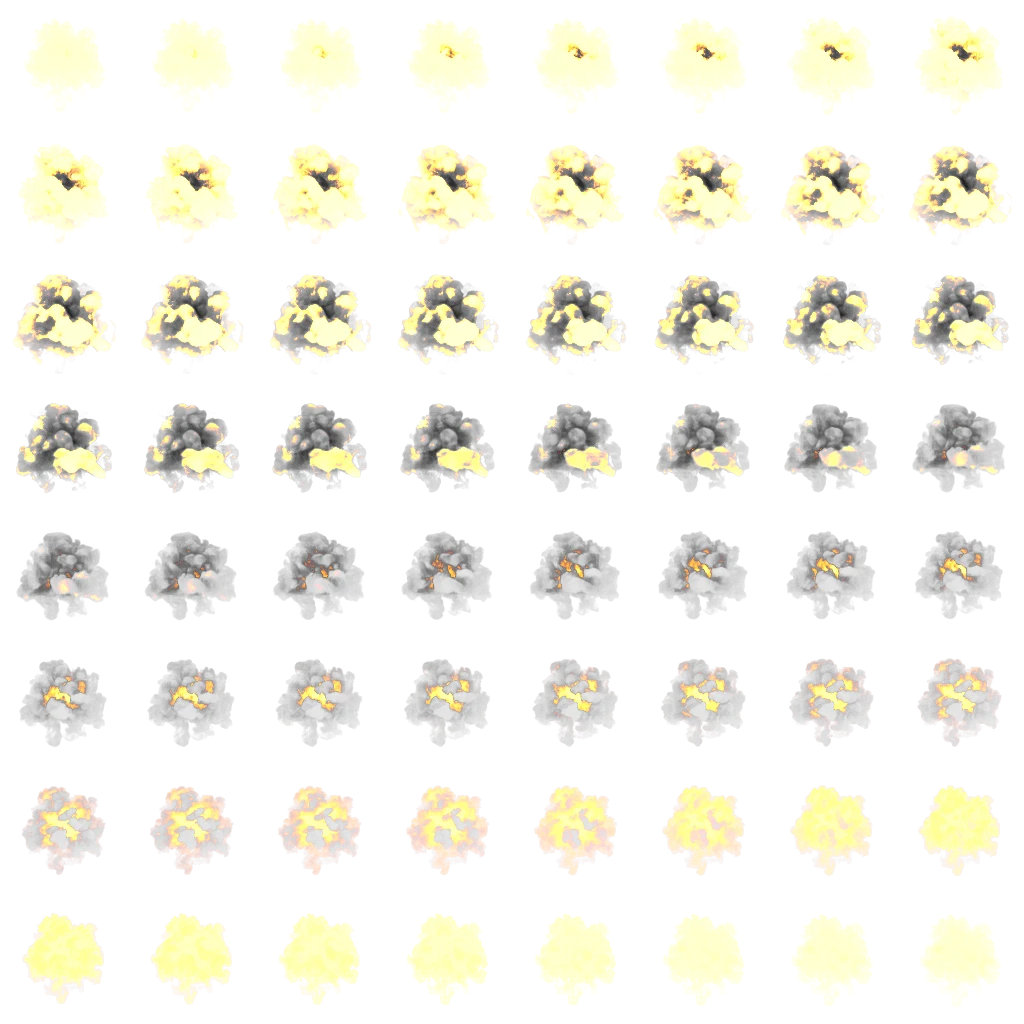
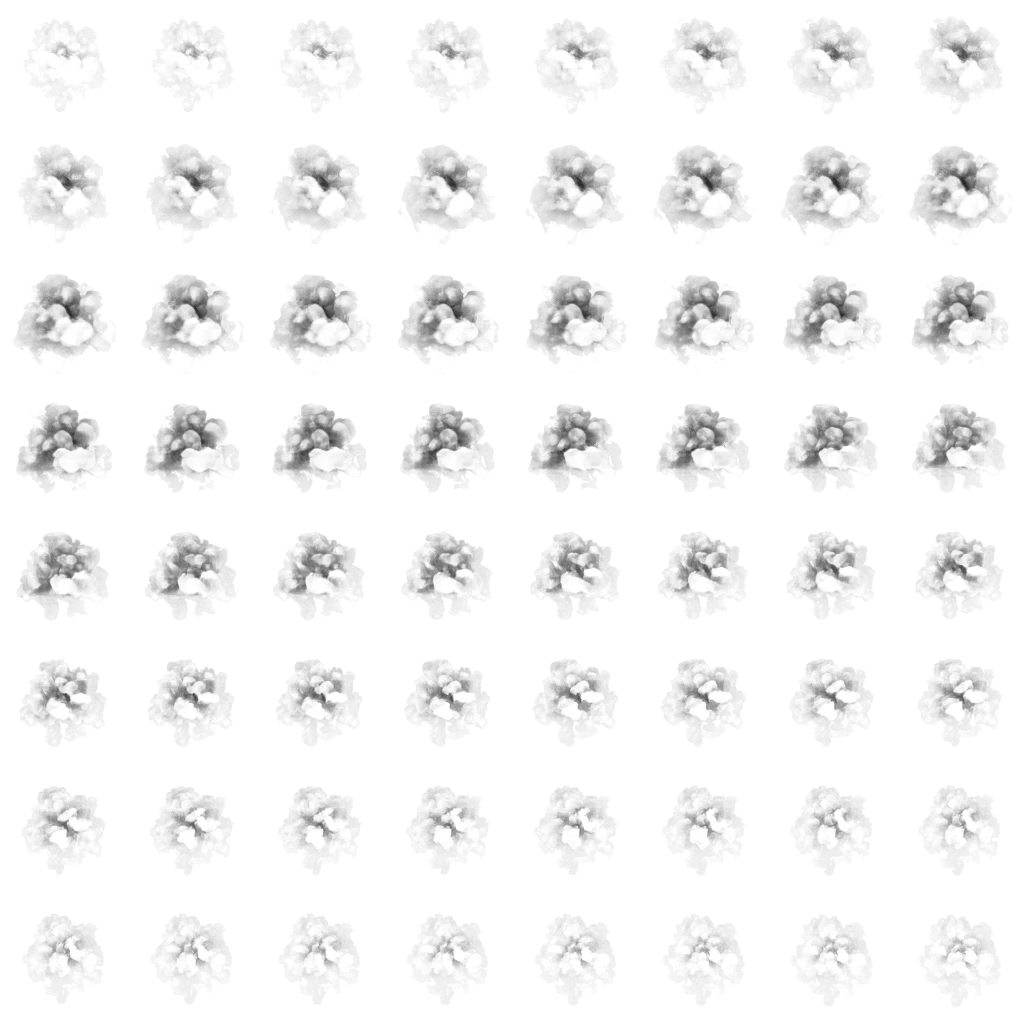
Effects: blast books read with the right grid, smoke unpacked as smoke, pictures of all of them
Claude-Session: https://claude.ai/code/session_016gsxKWa46tSX8BBXu4C1Xh

diff --git a/tools/build_fx_library.py b/tools/build_fx_library.py
@@ -30,7 +30,8 @@ from PIL import Image
 Image.MAX_IMAGE_PIXELS = None
 
 # source file (its name within the folder, wherever it lies) -> name, columns, rows, kind, how it is read
-#   read: "alpha" as it is; "black" drawn on black; "white" dark on white; "packed" shade/glow/cover in R/B/A
+#   read: "alpha" as it is; "black" drawn on black; "white" dark on white; "packed" shade/glow/cover in R/B/A;
+#         "shade" the same packing with no glow (smoke)
 SHEETS = [
     ("Fire Tileable.jpg", "noise_fire_01", 1, 1, "tile", "rgb"),
     ("Burningtexture.png", "noise_cloud_01", 1, 1, "tile", "rgb"),
@@ -85,8 +86,8 @@ SHEETS = [
     ("Fire1.png", "burst_white_01", 6, 6, "fire_burst_grey", "alpha"),
     ("SparkExolosion2.png", "spark_burst_01", 3, 3, "spark", "black"),
     # whole explosions: flash, fireball and the smoke after, in one book
-    ("Explosion1.png", "blast_01", 12, 8, "blast", "alpha"),
-    ("Explosion2.png", "blast_02", 12, 8, "blast", "alpha"),
+    ("Explosion1.png", "blast_01", 12, 7, "blast", "alpha"),
+    ("Explosion2.png", "blast_02", 12, 7, "blast", "alpha"),
     ("Explosion3.png", "blast_03", 12, 7, "blast", "alpha"),
     ("Explosion4.png", "blast_04", 8, 8, "blast", "alpha"),
     ("Explosion5.png", "blast_05", 12, 7, "blast", "alpha"),
@@ -105,15 +106,15 @@ SHEETS = [
     ("EmberExpl3.png", "blast_18", 8, 8, "blast", "alpha"),
     ("Explosion17.png", "dust_streak_01", 6, 12, "streak", "alpha"),
     # smoke
-    ("T_smoke_01_BC_E_M.png", "smoke_roll_01", 8, 8, "smoke_loop", "packed"),
-    ("T_smoke_02_BC_E_M.png", "smoke_roll_02", 8, 8, "smoke_loop", "packed"),
-    ("T_smoke_03_BC_E_M.png", "smoke_roll_03", 8, 8, "smoke_loop", "packed"),
-    ("T_smoke_04_BC_E_M.png", "smoke_roll_04", 8, 8, "smoke_loop", "packed"),
-    ("T_smoke_05_BC_E_M.png", "smoke_roll_05", 8, 8, "smoke_loop", "packed"),
-    ("T_smoke_06_BC_E_M.png", "smoke_roll_06", 8, 8, "smoke_loop", "packed"),
-    ("T_smoke_07_BC_E_M.png", "smoke_roll_07", 8, 8, "smoke_loop", "packed"),
-    ("T_smoke_08_BC_E_M.png", "smoke_roll_08", 8, 8, "smoke_loop", "packed"),
-    ("T_smoke_09_BC_E_M.png", "smoke_roll_09", 8, 8, "smoke_loop", "packed"),
+    ("T_smoke_01_BC_E_M.png", "smoke_roll_01", 8, 8, "smoke_loop", "shade"),
+    ("T_smoke_02_BC_E_M.png", "smoke_roll_02", 8, 8, "smoke_loop", "shade"),
+    ("T_smoke_03_BC_E_M.png", "smoke_roll_03", 8, 8, "smoke_loop", "shade"),
+    ("T_smoke_04_BC_E_M.png", "smoke_roll_04", 8, 8, "smoke_loop", "shade"),
+    ("T_smoke_05_BC_E_M.png", "smoke_roll_05", 8, 8, "smoke_loop", "shade"),
+    ("T_smoke_06_BC_E_M.png", "smoke_roll_06", 8, 8, "smoke_loop", "shade"),
+    ("T_smoke_07_BC_E_M.png", "smoke_roll_07", 8, 8, "smoke_loop", "shade"),
+    ("T_smoke_08_BC_E_M.png", "smoke_roll_08", 8, 8, "smoke_loop", "shade"),
+    ("T_smoke_09_BC_E_M.png", "smoke_roll_09", 8, 8, "smoke_loop", "shade"),
     ("SmokeAnim2.png", "smoke_dark_01", 8, 8, "smoke_loop", "alpha"),
     ("SmokeLoop.tif", "smoke_dark_02", 6, 6, "smoke_loop", "alpha"),
     ("SmokeLoop02.tif", "smoke_dark_03", 6, 6, "smoke_loop", "white"),
@@ -155,6 +156,9 @@ def convert(path, read, limit):
         lum = rgb.mean(axis=2)
         alpha = np.clip((1.0 - lum) * 1.6, 0, 1)
         rgb = np.full_like(rgb, 0.22)
+    elif read == "shade":
+        # Smoke packed the same way, with no fire in it: its shade is its picture.
+        rgb = np.repeat(np.clip(rgb[..., 0:1] * 1.05, 0, 1), 3, axis=2)
     elif read == "packed":
         shade, glow = rgb[..., 0], rgb[..., 2]
         fire = np.stack([np.clip(glow * 2.4, 0, 1), np.clip(glow * 1.5 - 0.1, 0, 1), np.clip(glow * 1.2 - 0.55, 0, 1)], axis=2)
@@ -171,19 +175,24 @@ def book(tex, **kw):
     return dict(dict(type="particles", texture=tex, amount=1, play="through"), **kw)
 
 
+def stands(t, size):
+    """How high a picture `size` across its longer side stands, metres."""
+    return size * t["cell_h"] / t["cell_w"] if t["cell_w"] >= t["cell_h"] else size
+
+
 def basic(name, t):
     """The plain effect a texture gets by its kind."""
     kind, frames = t["kind"], t["cols"] * t["rows"]
     if kind == "blast" or kind == "blast_smoke":
         seconds = round(frames / 34.0, 2)
-        layers = [book(name, lifetime=seconds, size=6.0, lift=1.6)]
+        layers = [book(name, lifetime=seconds, size=6.0, lift=round(stands(t, 6.0) * 0.46, 2))]
         if kind == "blast":
             layers.append(dict(type="light", color=[1.0, 0.7, 0.35], energy=14.0, range=18.0, flash=0.55))
         return dict(loop=False, seconds=seconds, about="A whole explosion from one book: flash, fireball, smoke.", layers=layers)
     if kind in ("fire_burst", "fire_burst_grey"):
         seconds = round(frames / 36.0, 2)
         return dict(loop=False, seconds=seconds, about="A burst of fire that swells and breaks up.", layers=[
-            book(name, lifetime=seconds, size=3.2, lift=0.8, blend="add", color=FIRE if kind.endswith("grey") else [1, 1, 1]),
+            book(name, lifetime=seconds, size=3.2, lift=1.5, blend="add", color=FIRE if kind.endswith("grey") else [1, 1, 1]),
             dict(type="light", color=[1.0, 0.65, 0.3], energy=8.0, range=10.0, flash=0.4)])
     if kind == "spark":
         return dict(loop=False, seconds=0.6, about="A burst of sparks.", layers=[
@@ -214,7 +223,7 @@ def basic(name, t):
     if kind == "smoke_once":
         seconds = round(frames / 24.0, 2)
         return dict(loop=False, seconds=seconds, about="A puff of smoke that billows and thins.", layers=[
-            book(name, lifetime=seconds, size=3.0, lift=0.6, lit=True, color=[0.75, 0.74, 0.72, 0.9])])
+            book(name, lifetime=seconds, size=3.0, lift=1.4, lit=True, color=[0.75, 0.74, 0.72, 0.9])])
     if kind == "streak":
         return dict(loop=False, seconds=1.6, about="A low streak of dust thrown along the ground.", layers=[
             book(name, lifetime=1.6, size=5.0, lift=0.4, lit=True)])
@@ -224,7 +233,8 @@ def basic(name, t):
                  spread=0.25, drift=0.3, fade="in_out", color=SMOKE + [0.6], lit=True, turn=25.0)])
     if kind == "glow":
         return dict(loop=True, about="A glow that hangs and pulses.", layers=[
-            dict(type="particles", texture=name, amount=1, lifetime=2.0, play="one", size=2.0, blend="add", fade="in_out")])
+            dict(type="particles", texture=name, amount=1, lifetime=2.0, play="one", size=2.0, blend="add", fade="in_out",
+                 lift=1.0)])
     if kind == "ring":
         return dict(loop=False, seconds=0.7, about="A shock ring that spreads and fades.", layers=[
             dict(type="particles", texture=name, amount=1, lifetime=0.7, play="one", size=1.0, grow=9.0, blend="add",
@@ -370,40 +380,40 @@ COMPOSITES = {
         dict(type="particles", texture="dust_bits_01", amount=6, lifetime=0.9, play="pick", size=0.35, grow=2.0, burst=0.7,
              one_shot=True, fade="out", lit=True, color=[0.62, 0.56, 0.48, 0.5], lift=0.1)]),
     "smoke_puff": dict(loop=False, seconds=1.5, about="One puff of smoke, as from a snuffed flame or a shot.", layers=[
-        book("smoke_burst_03", lifetime=1.5, size=1.6, lift=0.4, lit=True, color=[0.8, 0.8, 0.8, 0.8])]),
+        book("smoke_burst_03", lifetime=1.5, size=1.6, lift=0.8, lit=True, color=[0.8, 0.8, 0.8, 0.8])]),
     "smoke_ring_burst": dict(loop=False, seconds=2.4, about="Smoke thrown outward in a ring.", layers=[
         dict(type="particles", texture="puff_soft_03", amount=1, lifetime=2.4, play="one", size=2.0, grow=4.0, fade="out",
              flat=True, lift=0.4, color=SMOKE + [0.7], lit=True),
         ring(7.0, 0.5, "ring_cloud_01")]),
     # ---- explosions
     "explosion_small": dict(loop=False, seconds=2.2, about="A small explosion: a grenade, a pot of powder.", layers=[
-        book("blast_05", lifetime=2.2, size=4.0, lift=1.1), ring(6.0, 0.45), sparks(30, 7.0), debris(12, 5.0),
+        book("blast_05", lifetime=2.2, size=4.0, lift=1.5), ring(6.0, 0.45), sparks(30, 7.0), debris(12, 5.0),
         flash(12.0, 14.0, 0.45)]),
     "explosion_medium": dict(loop=False, seconds=2.6, about="A barrel going up.", layers=[
-        book("blast_07", lifetime=2.5, size=7.0, lift=2.0), book("fire_burst_03", lifetime=1.2, size=4.5, lift=1.4, blend="add"),
+        book("blast_07", lifetime=2.5, size=7.0, lift=2.7), book("fire_burst_03", lifetime=1.2, size=4.5, lift=2.0, blend="add"),
         ring(10.0, 0.55), sparks(50, 10.0), debris(26, 8.0), flash(20.0, 24.0, 0.6)]),
     "explosion_large": dict(loop=False, seconds=4.0, about="A big one, with a column of smoke left standing after it.", layers=[
-        book("blast_02", lifetime=2.9, size=12.0, lift=3.6), book("fire_burst_04", lifetime=1.6, size=8.0, lift=2.6, blend="add"),
+        book("blast_02", lifetime=2.9, size=15.0, lift=6.6), book("fire_burst_04", lifetime=1.6, size=8.0, lift=3.6, blend="add"),
         ring(18.0, 0.7), ring(12.0, 1.1, "ring_cloud_01"), sparks(80, 14.0), debris(44, 12.0),
         dict(smoke("smoke_dark_01", 14, 4.0, 3.0, 2.4, 2.2, [0.6, 0.6, 0.6, 0.9], lift=3.0, spread=1.5), one_shot=True),
         flash(34.0, 40.0, 0.8)]),
     "explosion_fiery": dict(loop=False, seconds=2.2, about="Mostly fire: fuel, a firebomb.", layers=[
-        book("blast_14", lifetime=2.2, size=8.0, lift=2.2), book("fire_burst_01", lifetime=1.0, size=5.0, lift=1.6, blend="add"),
+        book("blast_14", lifetime=2.2, size=8.0, lift=3.1), book("fire_burst_01", lifetime=1.0, size=5.0, lift=2.2, blend="add"),
         dict(embers(60, 1.5, 3.0), one_shot=True), flash(22.0, 24.0, 0.7)]),
     "explosion_smoky": dict(loop=False, seconds=3.0, about="Mostly smoke and dirt: a charge under earth.", layers=[
-        book("blast_18", lifetime=2.4, size=7.0, lift=2.0), book("blast_15", lifetime=2.6, size=8.0, lift=2.4),
+        book("blast_18", lifetime=2.4, size=7.0, lift=3.1), book("blast_15", lifetime=2.6, size=8.0, lift=3.1),
         book("dust_streak_01", lifetime=1.6, size=9.0, lift=0.5, lit=True), debris(40, 9.0), flash(8.0, 14.0, 0.3)]),
     "explosion_sparks": dict(loop=False, seconds=1.4, about="A crack and a shower of sparks, no fireball.", layers=[
         book("spark_burst_01", lifetime=0.6, size=3.4, blend="add", color=[1.0, 0.85, 0.6]), sparks(90, 12.0),
         ring(5.0, 0.3), flash(10.0, 12.0, 0.25)]),
     "explosion_magic": dict(loop=False, seconds=1.4, about="A blue-white burst, for something unnatural going off.", layers=[
-        book("burst_white_01", lifetime=1.0, size=5.0, lift=1.2, blend="add", color=[0.5, 0.8, 1.0]),
+        book("burst_white_01", lifetime=1.0, size=5.0, lift=2.2, blend="add", color=[0.5, 0.8, 1.0]),
         ring(11.0, 0.6), dict(type="light", color=[0.5, 0.75, 1.0], energy=18.0, range=20.0, flash=0.6)]),
     "airburst": dict(loop=False, seconds=2.4, about="An explosion in the air: no ring on the ground, no debris.", layers=[
         book("blast_11", lifetime=2.4, size=7.0), book("fire_burst_02", lifetime=1.2, size=4.0, blend="add"), sparks(40, 9.0),
         flash(18.0, 26.0, 0.5)]),
     "impact_fire": dict(loop=False, seconds=1.0, about="A fireball landing: a splash of flame and sparks.", layers=[
-        book("fire_burst_05", lifetime=1.0, size=3.0, lift=0.8, blend="add"), sparks(24, 6.0), ring(4.0, 0.3),
+        book("fire_burst_05", lifetime=1.0, size=3.0, lift=1.3, blend="add"), sparks(24, 6.0), ring(4.0, 0.3),
         flash(8.0, 10.0, 0.35)]),
     "shockwave": dict(loop=False, seconds=0.8, about="The ring alone: a blast felt, not seen.", layers=[
         ring(16.0, 0.8), ring(9.0, 0.5, "ring_01")]),

diff --git a/docs/FX_CATALOGUE.md b/docs/FX_CATALOGUE.md
@@ -137,8 +137,8 @@ This file and the JSON are written by `tools/build_fx_library.py`; edit the effe
 
 | Effect | Kind | Lasts | What it is | Textures |
 |---|---|---|---|---|
-| `blast_01` | one-shot | 2.8 s | A whole explosion from one book: flash, fireball, smoke. | blast_01 |
-| `blast_02` | one-shot | 2.8 s | A whole explosion from one book: flash, fireball, smoke. | blast_02 |
+| `blast_01` | one-shot | 2.5 s | A whole explosion from one book: flash, fireball, smoke. | blast_01 |
+| `blast_02` | one-shot | 2.5 s | A whole explosion from one book: flash, fireball, smoke. | blast_02 |
 | `blast_03` | one-shot | 2.5 s | A whole explosion from one book: flash, fireball, smoke. | blast_03 |
 | `blast_04` | one-shot | 1.9 s | A whole explosion from one book: flash, fireball, smoke. | blast_04 |
 | `blast_05` | one-shot | 2.5 s | A whole explosion from one book: flash, fireball, smoke. | blast_05 |
@@ -172,8 +172,8 @@ This file and the JSON are written by `tools/build_fx_library.py`; edit the effe
 
 | Texture | Grid | Frames | Size | Kind |
 |---|---|---|---|---|
-| `blast_01` | 12 x 8 | 96 | 3072 x 3072 | blast |
-| `blast_02` | 12 x 8 | 96 | 3072 x 3072 | blast |
+| `blast_01` | 12 x 7 | 84 | 3072 x 3072 | blast |
+| `blast_02` | 12 x 7 | 84 | 3072 x 3072 | blast |
 | `blast_03` | 12 x 7 | 84 | 3072 x 1536 | blast |
 | `blast_04` | 8 x 8 | 64 | 2048 x 2048 | blast |
 | `blast_05` | 12 x 7 | 84 | 3072 x 1536 | blast |
